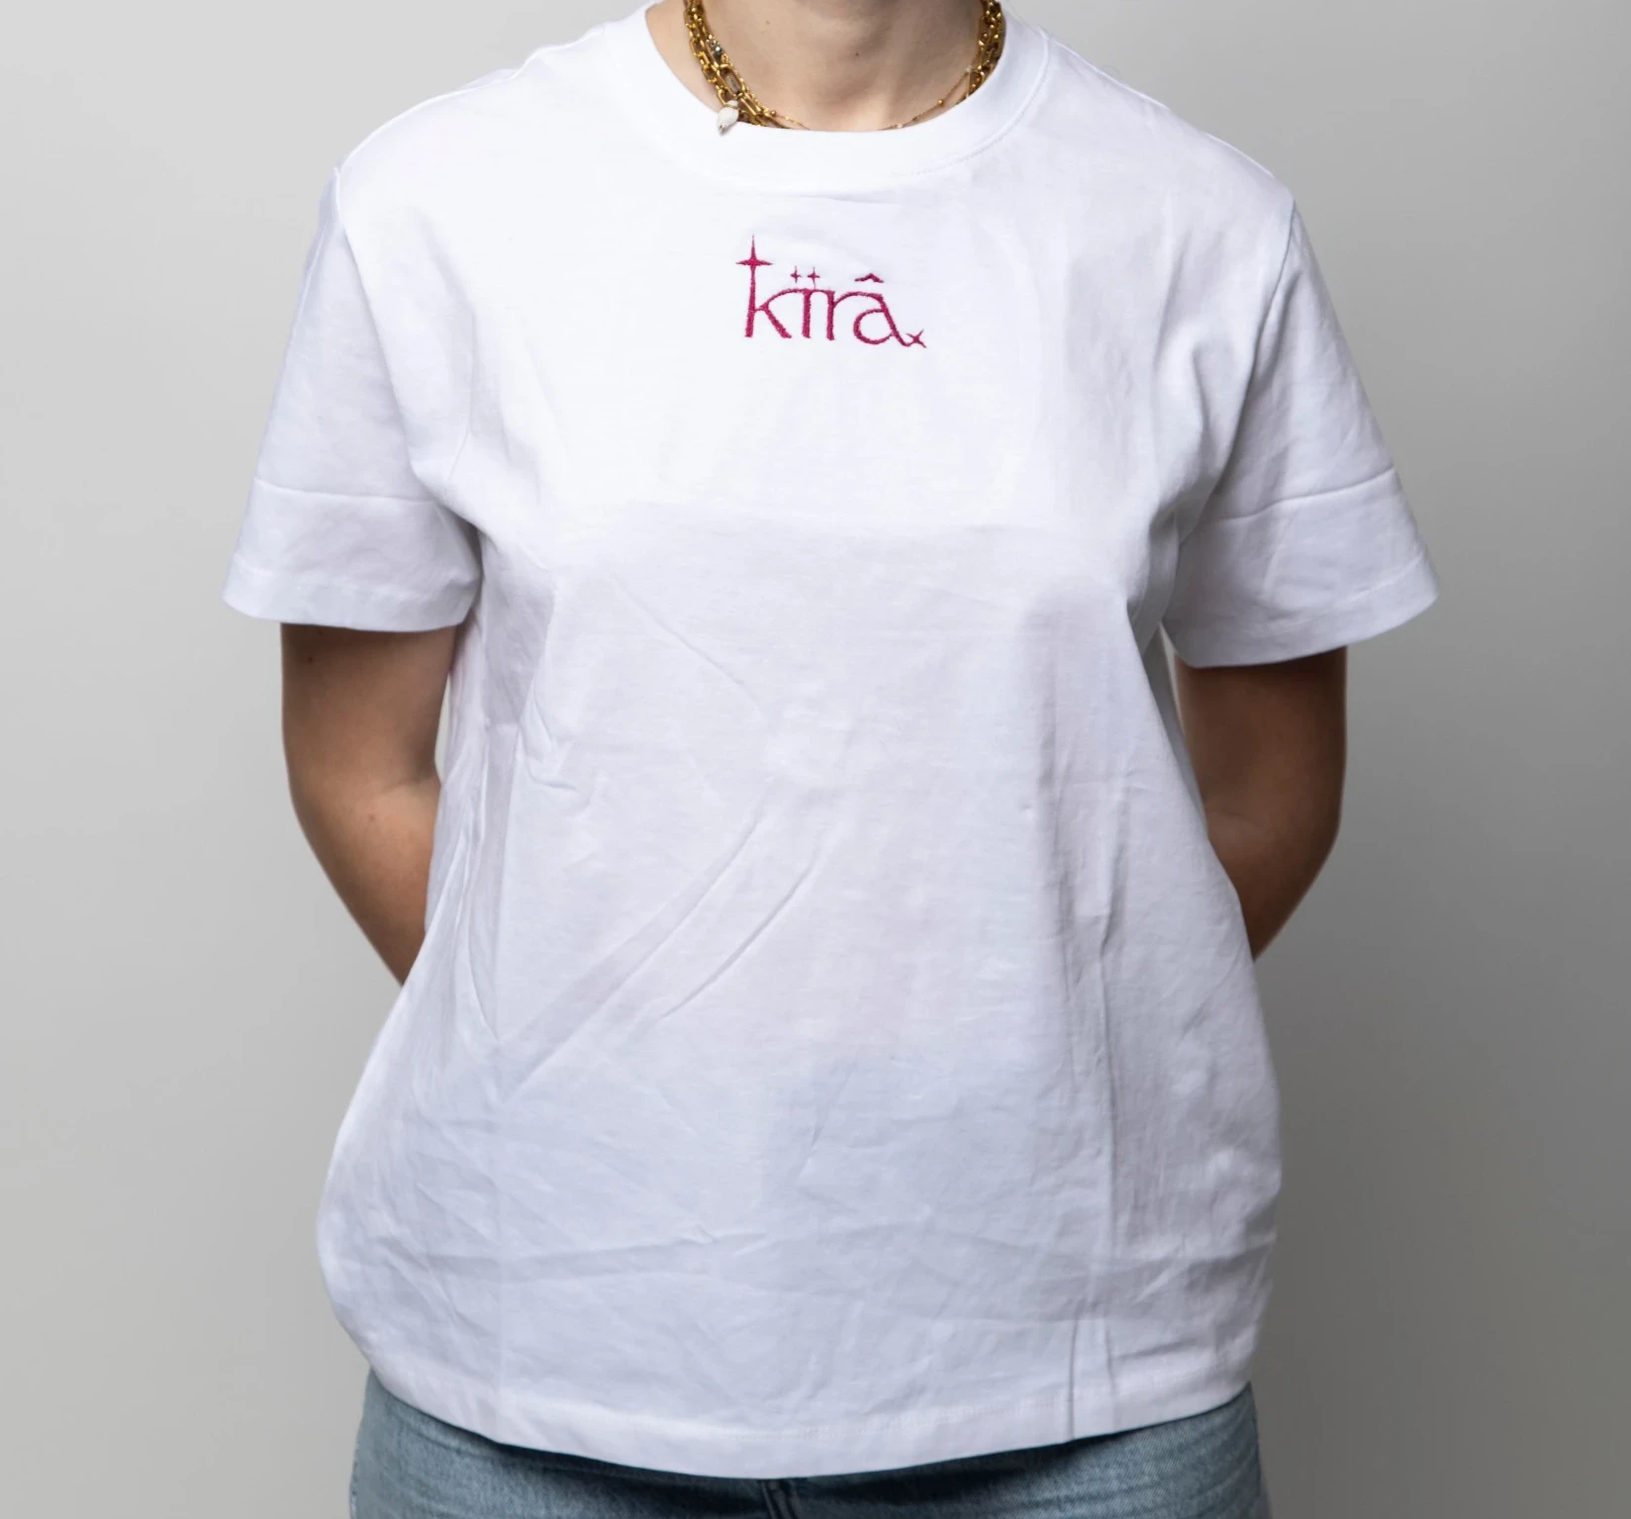
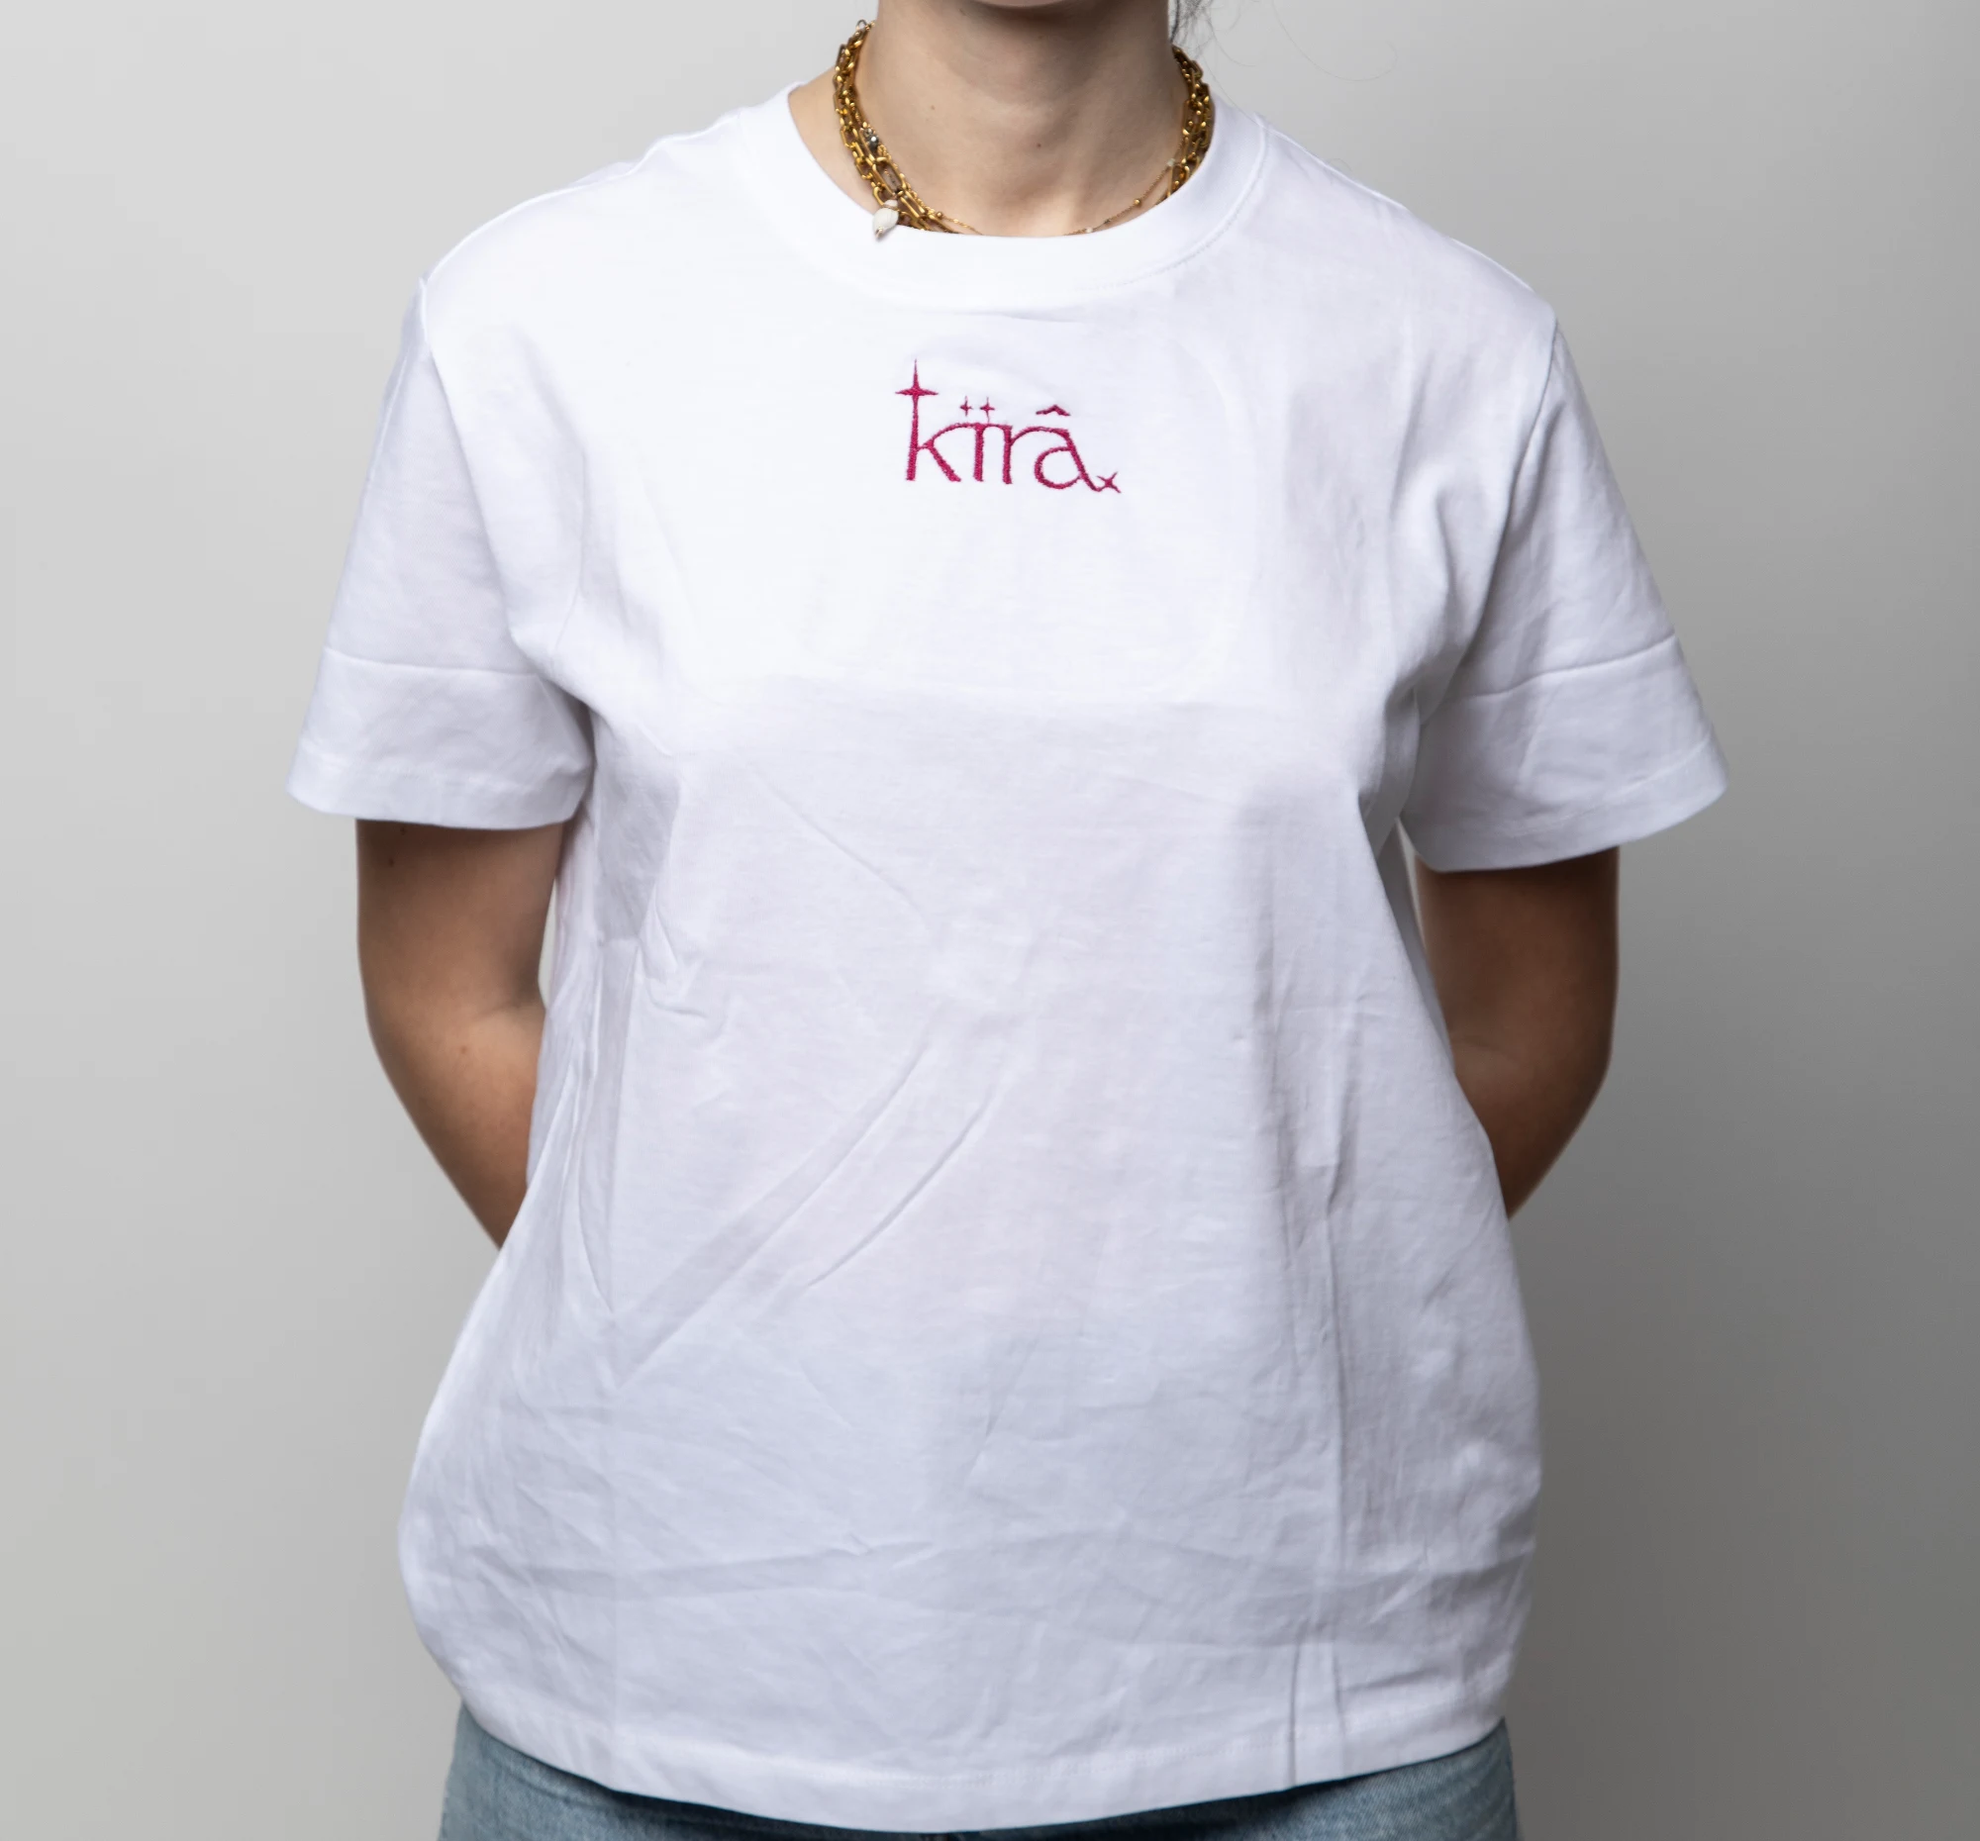
Laboratoire : photos Kirâ (t-shirt porté, broderie, stickers) depuis les originaux en 6720 px

diff --git a/laboratoire.html b/laboratoire.html
@@ -112,7 +112,7 @@
           <figcaption><span>Logotype</span><em>Branding</em></figcaption>
         </figure>
         <figure class="lab-item" data-cat="branding">
-          <button class="shot"><img src="assets/img/kira-tshirt.webp?v=202611031959" alt="T-shirt brodé Kirâ porté" loading="lazy"></button>
+          <button class="shot"><img src="assets/img/kira-tshirt.webp?v=202611041650" alt="T-shirt brodé Kirâ porté" loading="lazy"></button>
           <figcaption><span>T-shirt brodé</span><em>Branding</em></figcaption>
         </figure>
         <figure class="lab-item" data-cat="branding">
@@ -124,11 +124,11 @@
           <figcaption><span>Tote bag</span><em>Branding</em></figcaption>
         </figure>
         <figure class="lab-item" data-cat="branding">
-          <button class="shot"><img src="assets/img/kira-brode.webp?v=202611031959" alt="Détail de la broderie Kirâ" loading="lazy"></button>
+          <button class="shot"><img src="assets/img/kira-brode.webp?v=202611041650" alt="Détail de la broderie Kirâ" loading="lazy"></button>
           <figcaption><span>Broderie</span><em>Branding</em></figcaption>
         </figure>
         <figure class="lab-item" data-cat="branding">
-          <button class="shot"><img src="assets/img/kira-stickers.webp?v=202611031959" alt="Stickers et cartes Kirâ" loading="lazy"></button>
+          <button class="shot"><img src="assets/img/kira-stickers.webp?v=202611041650" alt="Stickers et cartes Kirâ" loading="lazy"></button>
           <figcaption><span>Stickers & cartes</span><em>Branding</em></figcaption>
         </figure>
       </div>
